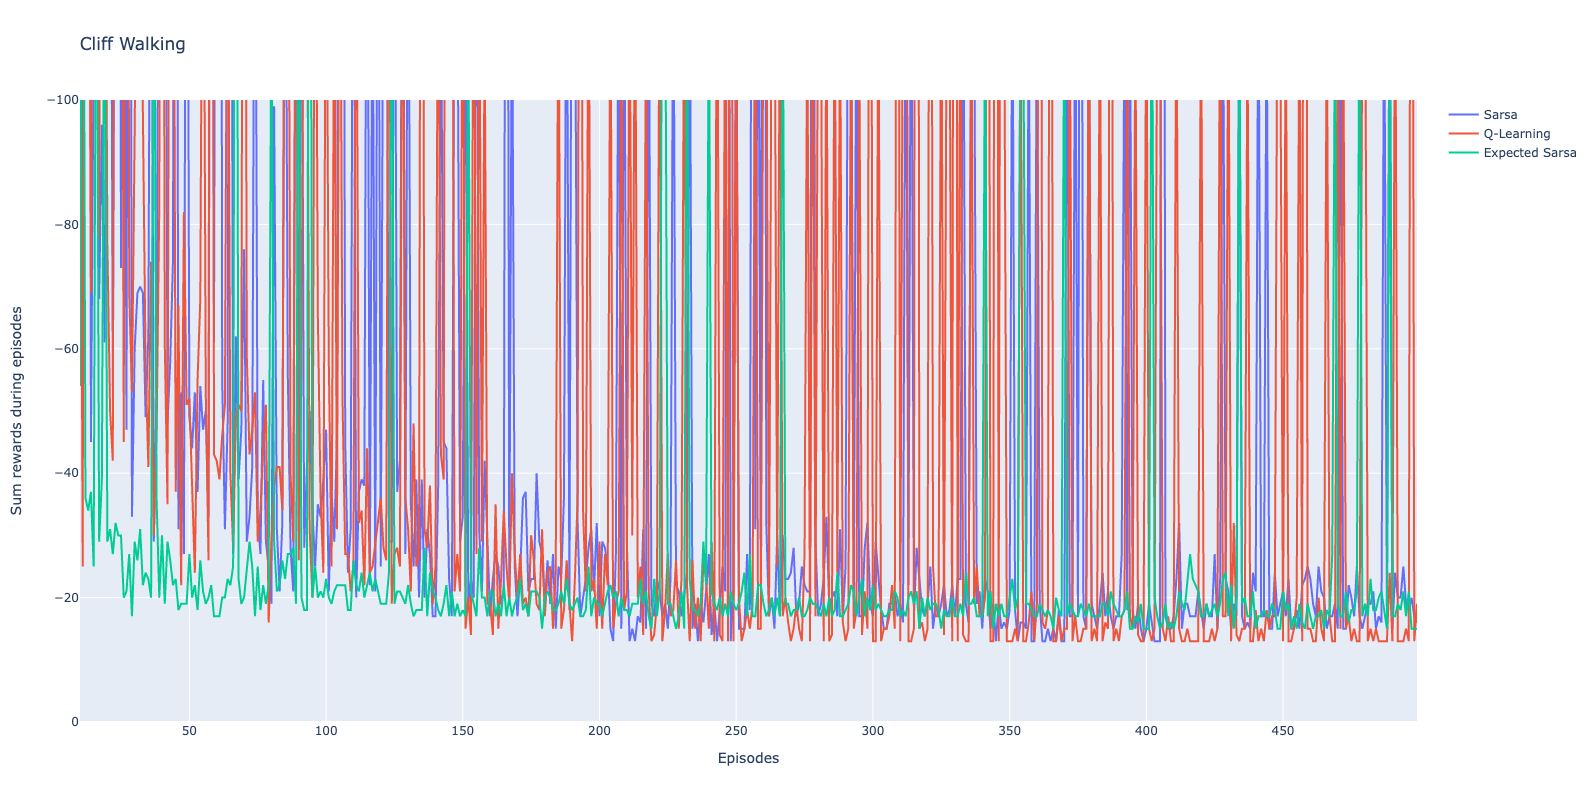
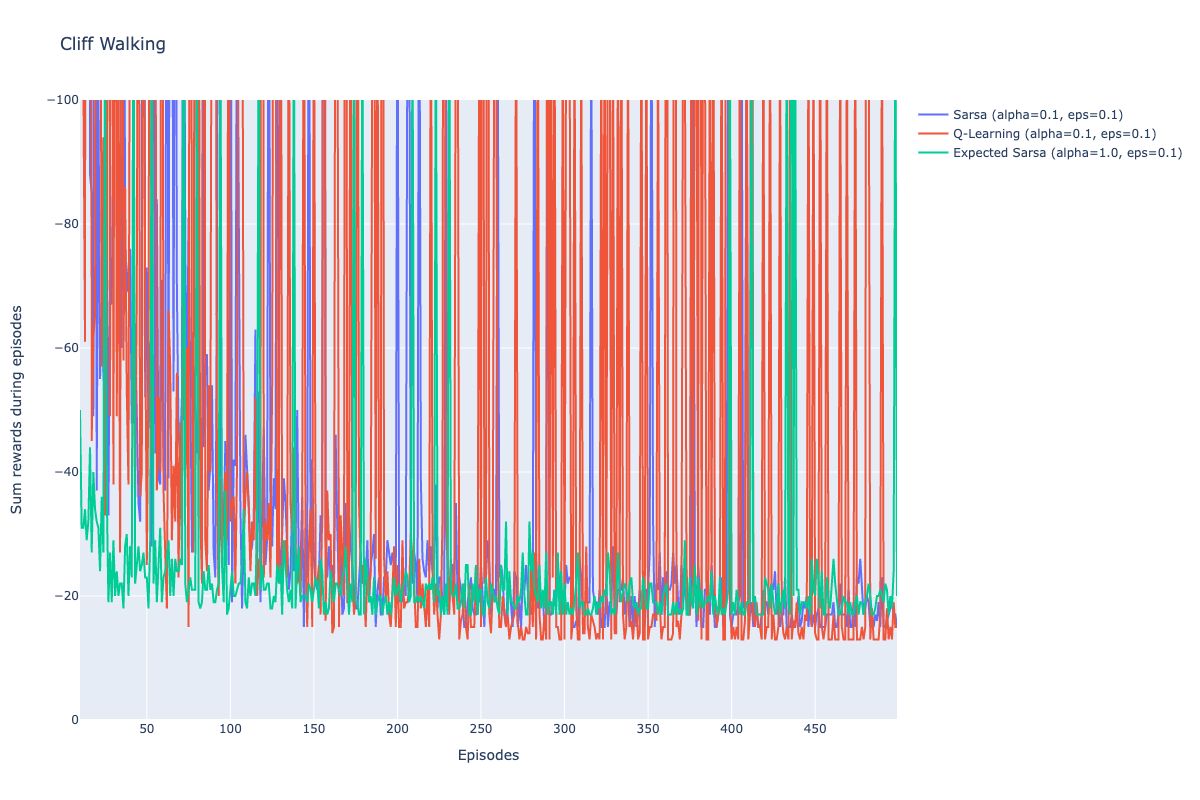
chore: update pics

diff --git a/cliff_walking.py b/cliff_walking.py
@@ -186,21 +186,21 @@ if __name__ == "__main__":
         go.Scatter(
             x=list(range(num_episodes))[10::1],
             y=sarsa_rewards[10::1],
-            name="Sarsa (alpha=0.1)",
+            name="Sarsa (alpha=0.1, eps=0.1)",
         ),
     )
     fig.add_trace(
         go.Scatter(
             x=list(range(num_episodes))[10::1],
             y=qlearning_rewards[10::1],
-            name="Q-Learning (alpha=0.1)",
+            name="Q-Learning (alpha=0.1, eps=0.1)",
         ),
     )
     fig.add_trace(
         go.Scatter(
             x=list(range(num_episodes))[10::1],
             y=exp_sarsa_rewards[10::1],
-            name="Expected Sarsa (alpha=1.0)",
+            name="Expected Sarsa (alpha=1.0, eps=0.1)",
         ),
     )
     fig.update_layout(
@@ -208,6 +208,8 @@ if __name__ == "__main__":
         showlegend=True,
         xaxis_title="Episodes",
         yaxis_title="Sum rewards during episodes",
+        height=800,
+        width=1200,
     )
     fig.update_yaxes(range=[0, -100])
     fig.show()
